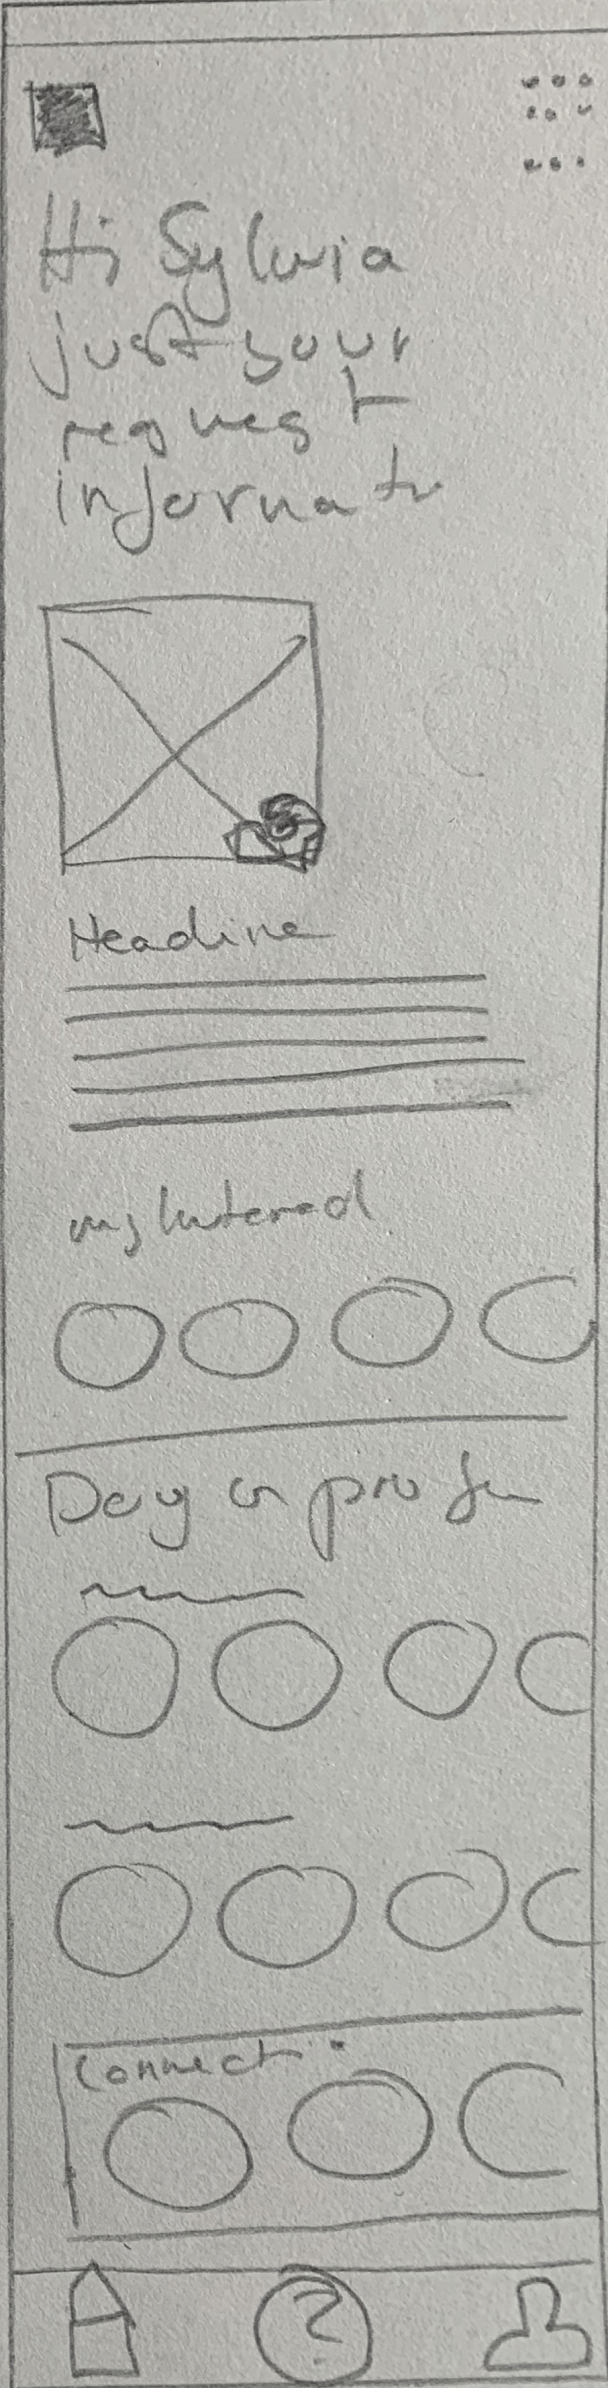
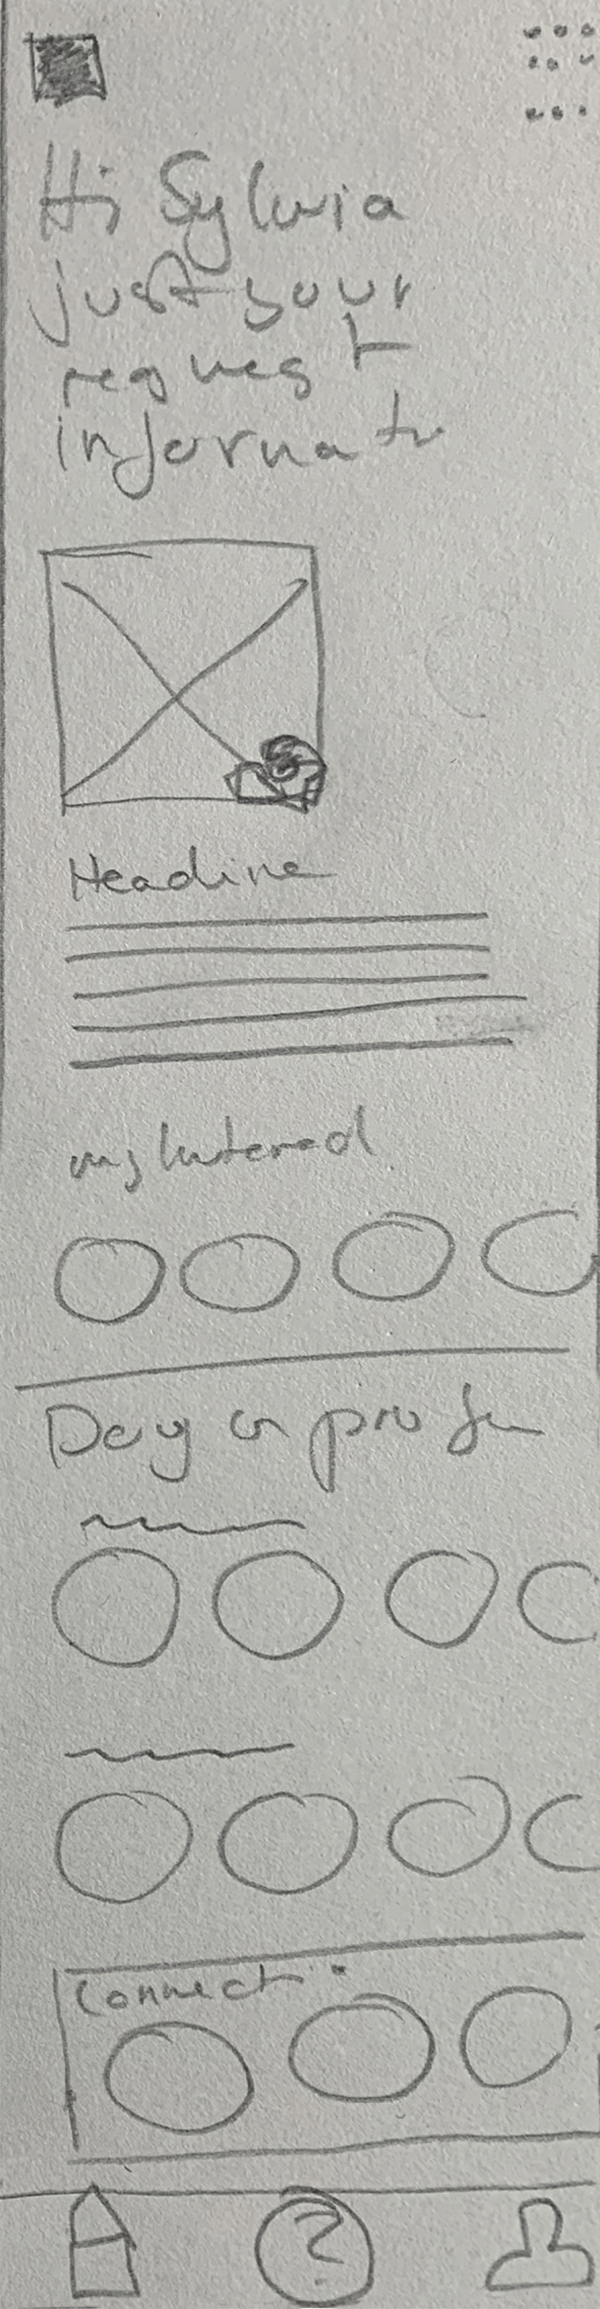
work on website

diff --git a/wingbuddy.html b/wingbuddy.html
@@ -236,6 +236,56 @@
               <source srcset="img/wingbuddy/styleguide_5_mobile.jpg" media="(max-width:767px)">
               <img src="img/wingbuddy/styleguide_5_desktop.jpg" alt="Icons & Buttons">
             </picture>
+          </div>
+          <!--styleguide ende-->
+
+          <div>
+            <!--wireframes textblock-->
+            <h3>
+              Wireframes
+            </h3>
+            <p>Since our users need to be able to access the application at events or otherwise on the go,  I assumed a mobile first approach.
+            </p>
+
+            <div>
+              <!--open first column-->
+              <h4>
+                Dashboard
+              </h4>
+              <div>
+                <div> <!--three columns for images column-->
+                  <div>
+                    <img src="img/wingbuddy/low_home.png" alt="Low Fidelity Home">
+                  </div>
+                  <div>
+                    <img src="img/wingbuddy/midfid_home.png" alt="Mid Fidelity Home">
+                  </div>
+                  <div>
+                    <img src="img/wingbuddy/highfid_home.png" alt="High Fidelity Home">
+                  </div>
+                </div>
+              </div>
+            </div>
+
+            <div>
+              <!--open first column-->
+              <h4>
+                Dashboard
+              </h4>
+              <div>
+                <div>
+                  <div>
+                    <img src="img/wingbuddy/low_profile.png" alt="Low Fidelity Profile">
+                  </div>
+                  <div>
+                    <img src="img/wingbuddy/midfid_profile.png" alt="Mid Fidelity Profile">
+                  </div>
+                  <div>
+                    <img src="img/wingbuddy/highfid_profile.png" alt="High Fidelity Profile">
+                  </div>
+                </div>
+              </div>
+            </div>
 
 
           </div>

diff --git a/about.html b/about.html
@@ -69,21 +69,42 @@
             <li>User Personas</li>
             <li>User Stories</li>
             <li>User Flows</li>
-          <li>Sketching</li>
+            <li>User Journeys</li>
+            <li>Sitemaps</li>
+            <li>Information Architecture</li>
+            <li>Tasks Analysis</li>
+            <li>Affinity Mapping</li>
+            <li>Usability Tests</li>
+            <li>Design Language System</li>
+            <li>Sketching</li>
             <li>Wireframing</li>
             <li>Prototyping</li>
             <li>User Interface Design</li>
             <li>Visual Design</li>
+            <li>Frontend Development</li>
+            <li>Graphic Design</li>
+            <li>Product Design</li>
+            <li>AB Testing</li>
+            <li>SCRUM/Agile</li>
+            <li>HTML, CSS, Java Script Basics (I coded this website myself)</li>
           </ul>
         </div>
         <div>
           <h3>Tools</h3>
           <ul>
-            <li>Pen & Paper</li>
             <li>Figma</li>
+            <li>Sketch</li>
+            <li>Adobe XD</li>
+            <li>Balsamiq</li>
+            <li>InVision</li>
+            <li>Atom</li>
+            <li>GitHub</li>
             <li>Adobe Photoshop</li>
+            <li>Adobe InDesign</li>
             <li>Adobe Illustrator</li>
-            <li>UnDraw.co</li>
+            <li>Adobe After Effects Basics</li>
+            <li>Final Cut Pro Basics</li>
+            <li>... to be continued</li>
           </ul>
         </div>
       </div>
